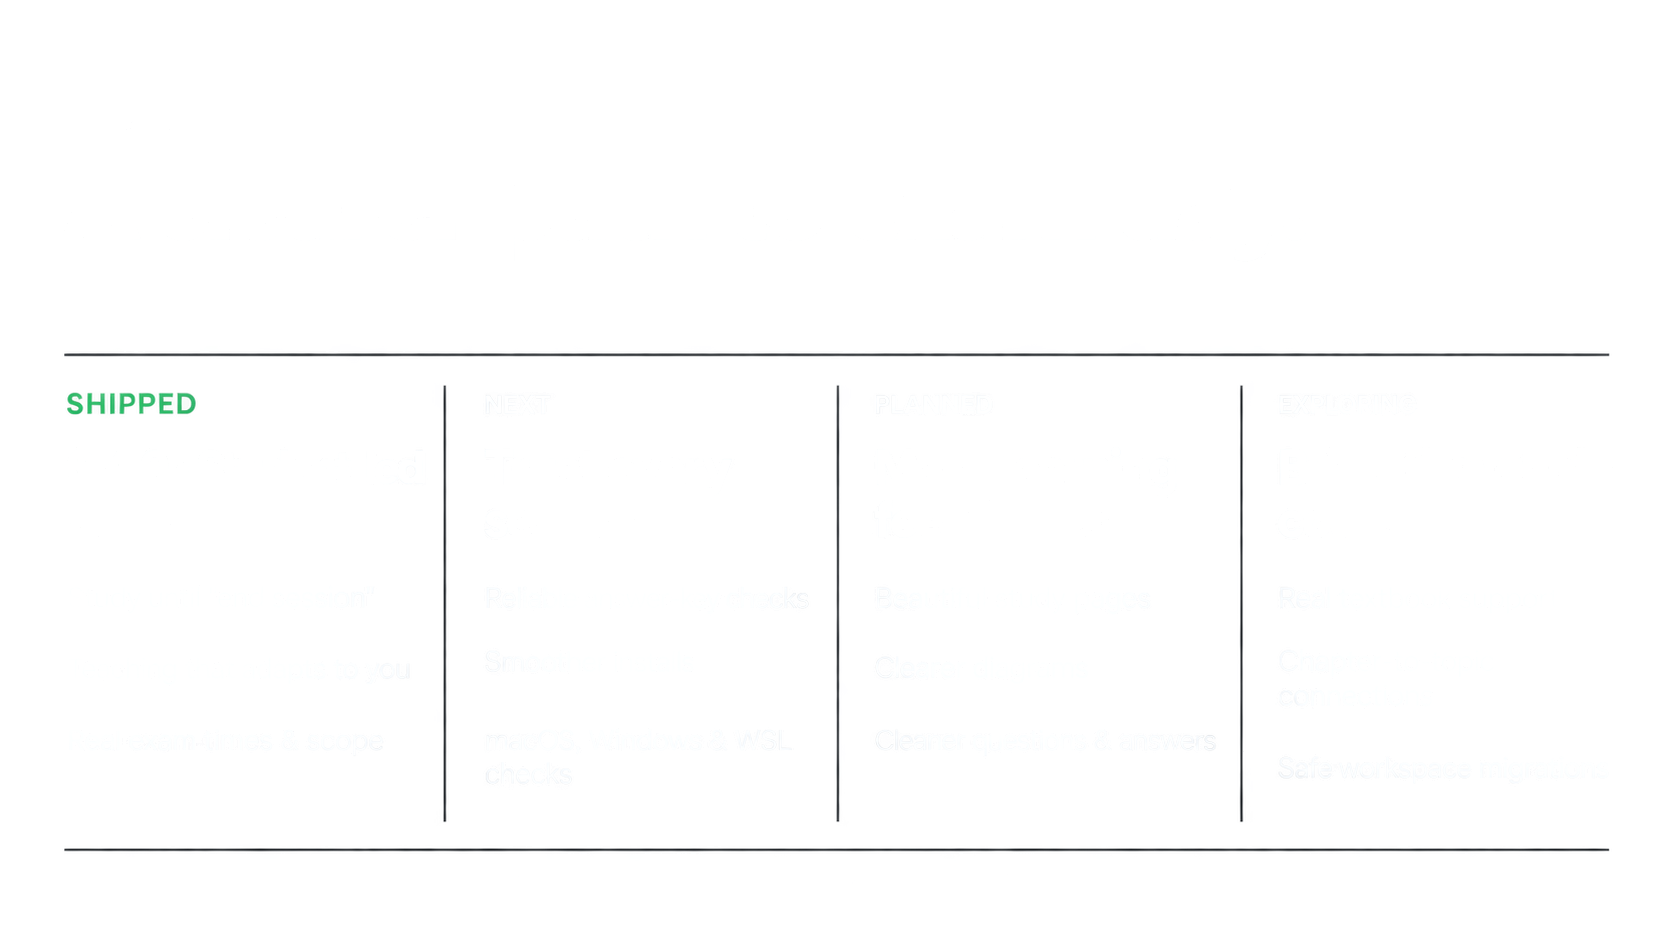
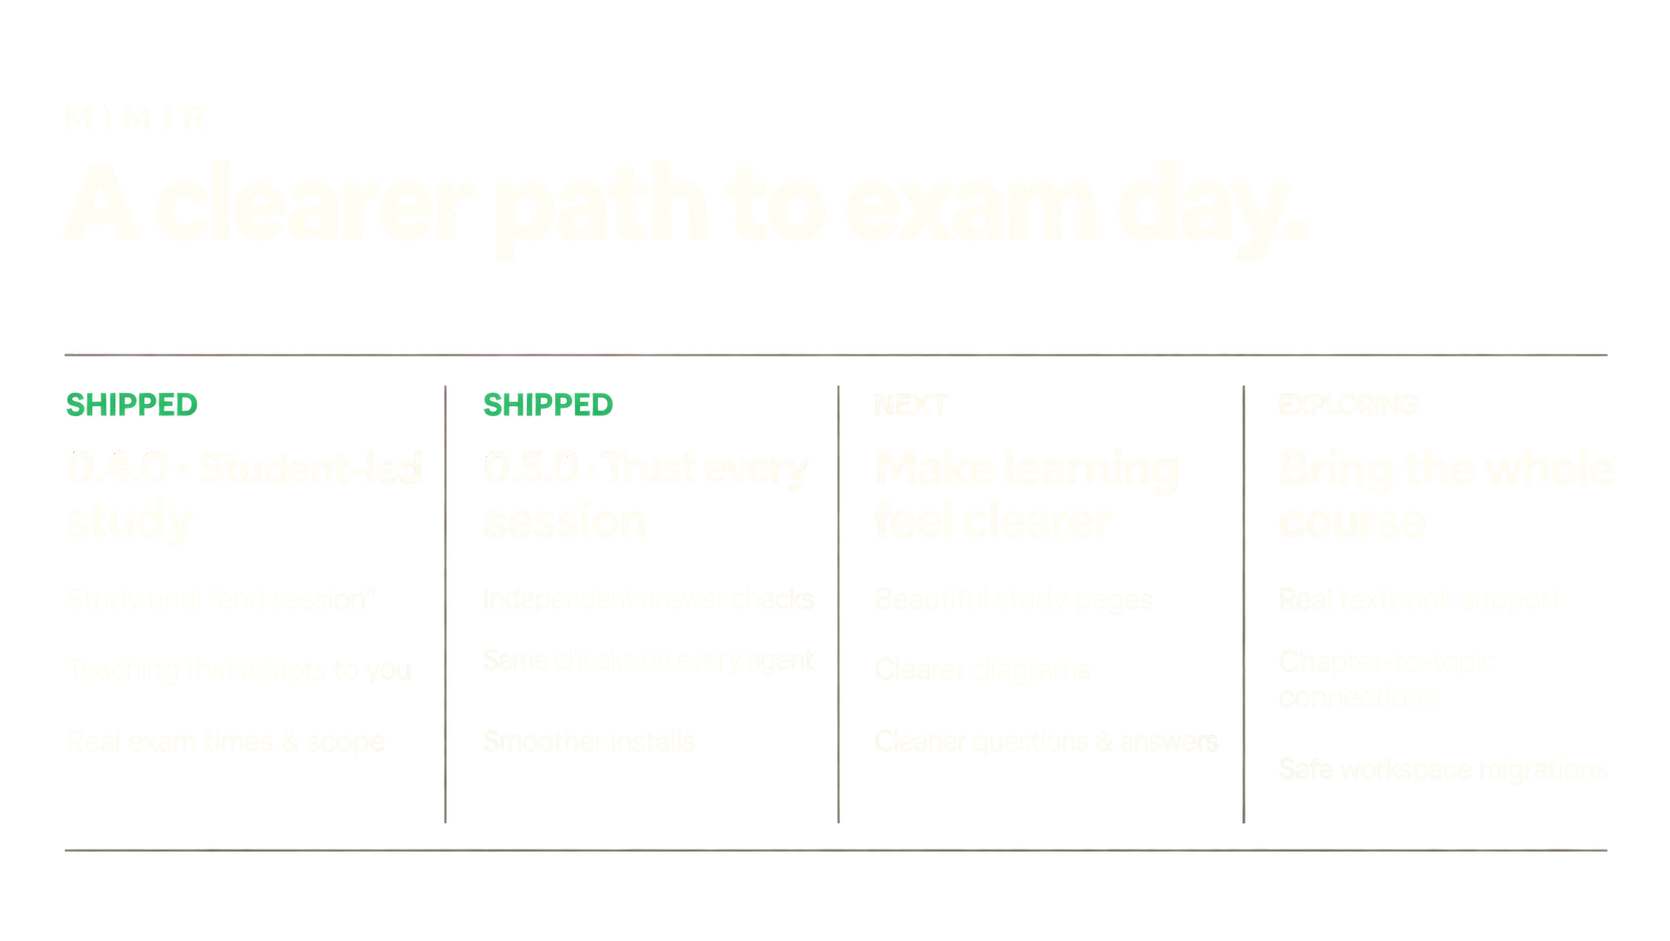
Docs: record the 0.5.0 state and update the roadmap (#83)
* Record the 0.5.0 state in the README and acceptance notes

The roadmap still listed trust every session as next, and the #79 notes
still listed the GitHub install repeat as future work. Record the repeat
runs, the install from main and what remains unchecked.

* Update the README roadmap for 0.5.0

0.5.0 moves to Shipped beside 0.4.0, and "Make learning feel clearer"
moves from Planned to Next. The light image was edited with GPT Image
through Codex; the dark copy inverts it and keeps the green brighter.

---------

Changed region(s): [[0.0311, 0.3698, 0.9341, 0.4623], [0.0623, 0.8937, 0.9653, 0.9245], [0.7162, 0.4315, 0.7473, 0.8629]]

diff --git a/docs/acceptance-79.md b/docs/acceptance-79.md
@@ -2,7 +2,7 @@
 
 2026-11-20. Live runs with a scripted student on all three hosts, on Linux (CachyOS), as [`tests/acceptance/README.md`](../tests/acceptance/README.md) says: one study run (support method-first, shortened to reach an independent check and a clean close) and one quiz run of 3 questions per host, each on a fresh fixture folder. The student was played by the implementing agent. J to N are counted from the raw host events by `tests/acceptance/speed_checks.py` on Claude Code and Antigravity; on Codex, whose `--json` stream lacks the subagent calls, G and the settle order were read from the session rollout. Raw runs are kept outside the repo under `~/.cache/mimir-acceptance/results/{claude,codex,agy}-79-r1/{study,quiz}`. These are fixture runs, not real student sessions.
 
-- Plugin: `2d94b42` (this branch, before the merge of #3), frozen as a worktree. **Not from the GitHub install**: the code is not on `main` yet. Codex used a clean `CODEX_HOME` with the login copied and Mimir added from a local marketplace (`codex plugin add mimir@mimir`, 12 skills); Antigravity used a clean HOME with `agy plugin install <local plugin>` (12 skills). See "To repeat after merge".
+- Plugin: `2d94b42` (this branch, before the merge of #3), frozen as a worktree. **Not from the GitHub install**: the code is not on `main` yet. Codex used a clean `CODEX_HOME` with the login copied and Mimir added from a local marketplace (`codex plugin add mimir@mimir`, 12 skills); Antigravity used a clean HOME with `agy plugin install <local plugin>` (12 skills). See "Repeat from the GitHub install".
 - Hosts: Claude Code 2.1.327 run lean on Sonnet 5.5; Codex CLI 0.166.0 on gpt-6.2-sol; Antigravity CLI `agy` 1.4.12 on its default model (gemini-4-neon-high), in print mode with `--dangerously-skip-permissions` and the installed plugin folder added with `--add-dir`.
 
 ## Results
@@ -34,14 +34,22 @@ Other checks:
 ## Findings
 
 1. **Antigravity's stream leaves out the checker definition.** agy 1.4.12 streams a `define_subagent` call with only its name and description; the system prompt and tool switches are only in the conversation's `brain/<id>/.system_generated/logs/transcript_full.jsonl`. `drive.py` now copies that file next to the run's events, and check G reads it. Two argument shapes exist (one JSON `definition`, or separate `Name`, `SystemPrompt` and `Enable*Tools` fields); both are read.
-2. **The Codex checker child loads the core rules.** In both Codex runs and in every Codex benchmark pack, the child's first command printed `skills/mimir-core-rules/SKILL.md`: the skill's description asks to be loaded before reading any Mimir `.state/` file, and the pack lives in `.state/checks/`. It read no course file the pack did not name. On Codex the checker's read-only rule is a prompt rule anyway (README). #3, merged into the integration branch after these runs, moves the core rules out of `skills/` into `reference/core-rules.md`, so this trigger should disappear; the repeat runs after the merge should confirm it. Not changed here.
+2. **The Codex checker child loads the core rules.** In both Codex runs and in every Codex benchmark pack, the child's first command printed `skills/mimir-core-rules/SKILL.md`: the skill's description asks to be loaded before reading any Mimir `.state/` file, and the pack lives in `.state/checks/`. It read no course file the pack did not name. On Codex the checker's read-only rule is a prompt rule anyway (README). #3, merged into the integration branch after these runs, moves the core rules out of `skills/` into `reference/core-rules.md`, and in the final repeat below neither Codex checker child read the core rules.
 3. **Antigravity is slow at a set start.** The quiz's first turn took about 185 s to the first question; the tutor also set a `schedule` timer of 120 s while it waited for the checker. Answer turns took 20 to 40 s in step time. agy's usage and seconds in the result event are totals for the conversation, so `transcript.md` shows running totals on Antigravity.
 4. **agy print mode needs the prompt last.** `agy -p` takes the next word as its prompt; with flags after it, agy refuses. Fixed in the driver and the benchmark.
 5. **No rule or README change was needed** from these runs: every host found its dispatch recipe in the core rules and used it.
 
-## To repeat after merge (from the GitHub install)
+## Repeat from the GitHub install
 
-The ticket asks for the Codex and Antigravity runs to start from the GitHub install, which closes #4. That can only happen once this branch is on `main`. After the merge, repeat on a clean home, with the README's commands:
+The ticket asks for the Codex and Antigravity runs to start from the GitHub install, which closes #4. These repeats are done, and #4 and #23 are closed.
+
+- **First repeat, 2026-11-21, on `283aef8`.** Codex and Antigravity study and quiz, installed from the GitHub branch into clean homes. The independent check passed on all four runs. The runs found two defects: the quiz wrote its answer-turn reply twice on both hosts, and the Antigravity study made tool calls before its text in two turns. Both were fixed in `470ef60`.
+- **Final repeat, 2026-11-21, on `cfd8870`.** The same four runs, from clean GitHub installs. `cfd8870` has the same file tree as the merge commit `0ef8596`. On Antigravity, both runs defined the checker from `helpers/verifier.md`, invoked it and settled its reply, and J to N pass. On Codex, both rollouts show `verify.py submit`, `spawn_agent` with `fork_turns` none, `wait_agent` and `verify.py settle`, in that order. Raw runs are under `~/.cache/mimir-acceptance/results/{codex,agy}-82-r2/{study,quiz}`.
+- **Install from `main`, 2026-11-23, at `0ef8596`.** The README's commands ran in clean homes on Codex CLI 0.166.0 and Antigravity CLI 1.5.14. Both installed Mimir 0.5.0 with 10 skills. This step ran no live session.
+
+Still open: the by-eye look at each host's window (`docs/issue-13-host-checks.md`). PR #82 also records one Antigravity quiz run where the set's first question appeared three times at the set start; the rule allows two.
+
+To run the install again on a clean home, with the README's commands:
 
 ```sh
 A=~/.cache/mimir-acceptance
@@ -51,7 +59,7 @@ CODEX_HOME="$A/codex-home-gh" codex plugin add mimir@mimir
 mkdir -p "$A/agy-home-gh" && HOME="$A/agy-home-gh" agy plugin install https://github.com/oguzdogmus/mimir
 ```
 
-Then the Codex study and quiz runs and the Antigravity study and quiz runs above (four runs), and confirm the skill count (10 once #3 is merged). The Claude Code runs need no repeat for #4; repeating them from `/plugin install` is optional.
+Then run the Codex and Antigravity study and quiz runs above (four runs) and confirm the skill count of 10. The Claude Code runs were not part of #4; repeating them from `/plugin install` is optional.
 
 ## Cost
 

diff --git a/README.md b/README.md
@@ -145,13 +145,13 @@ If that app doesn't expand slash commands either, run `mimir-setup` and `mimir-i
 
 <picture>
   <source media="(prefers-color-scheme: dark)" srcset="assets/roadmap/mimir-roadmap-readme-dark.png">
-  <img src="assets/roadmap/mimir-roadmap-readme.png" alt="Mimir roadmap: shipped student-led study, adaptive teaching, and exam times and scope; next session reliability; planned clearer learning visuals and formatting; exploring textbook support, chapter connections, and safe migrations">
+  <img src="assets/roadmap/mimir-roadmap-readme.png" alt="Mimir roadmap: shipped student-led study in 0.4.0 and trust every session in 0.5.0, with independent answer checks on every agent and smoother installs; next clearer study pages, diagrams and question formatting; exploring textbook support, chapter connections, and safe migrations">
 </picture>
 
-Priorities come from hands-on testing and may change. There are no promised dates. Until 1.0, expect changes to how sessions run and to the folder layout. What shipped in 0.4.0 is in the [changelog](CHANGELOG.md).
+Priorities come from hands-on testing and may change. There are no promised dates. Until 1.0, expect changes to how sessions run and to the folder layout. What changed in each version is in the [changelog](CHANGELOG.md).
 
-- **Next: trust every session.** Answer keys checked on every agent ([#23](https://github.com/oguzdogmus/mimir/issues/23), [#2](https://github.com/oguzdogmus/mimir/issues/2)), smoother installs ([#3](https://github.com/oguzdogmus/mimir/issues/3), [#4](https://github.com/oguzdogmus/mimir/issues/4)), and live checks on macOS, Windows and WSL ([`RELEASE.md`](RELEASE.md)).
-- **Planned: make learning feel clearer.** Better-looking pages and diagrams, cleaner question and answer formatting in chat (especially the Claude mobile and desktop apps).
+- **In 0.5.0: trust every session.** Answer keys are checked by an independent helper on Claude Code, Codex and Antigravity ([#23](https://github.com/oguzdogmus/mimir/issues/23), [#2](https://github.com/oguzdogmus/mimir/issues/2)), and installs are smoother ([#3](https://github.com/oguzdogmus/mimir/issues/3), [#4](https://github.com/oguzdogmus/mimir/issues/4)). Live runs covered Linux. macOS and Windows pass the script tests in CI, and macOS, Windows and WSL have not been checked by hand ([`RELEASE.md`](RELEASE.md)).
+- **Next: make learning feel clearer.** Better-looking pages and diagrams, cleaner question and answer formatting in chat (especially the Claude mobile and desktop apps).
 - **Exploring: bring the whole course.** Real textbook support (today ingest files a textbook, but sessions never read it), chapters linked to course topics, and safe migrations when the folder layout changes.
 
 ## Development
